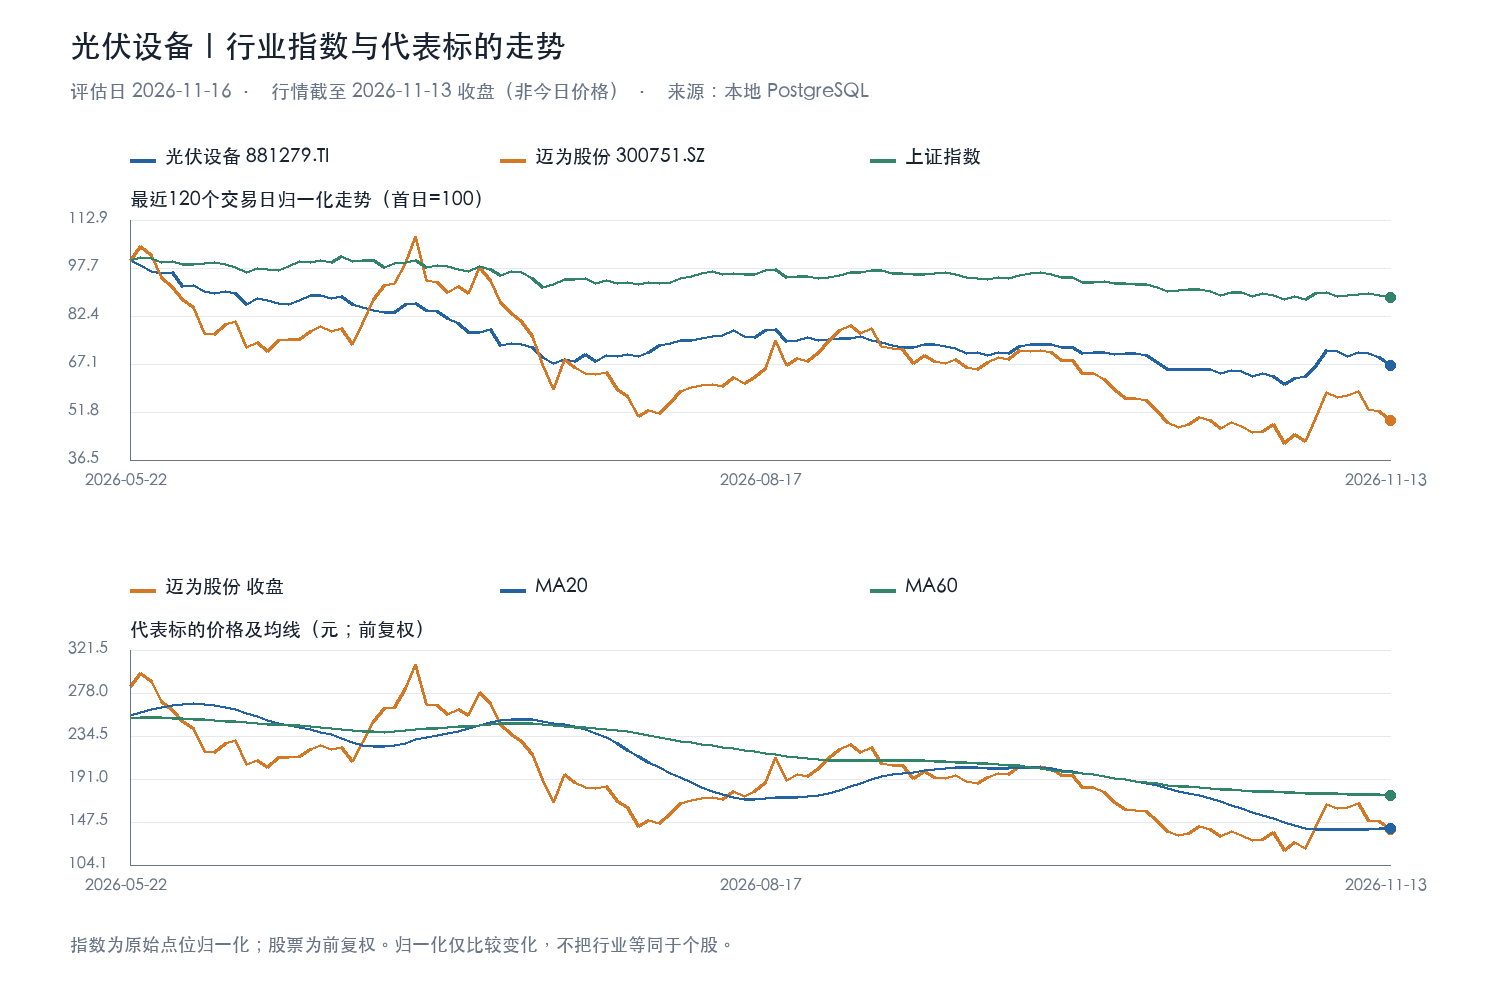
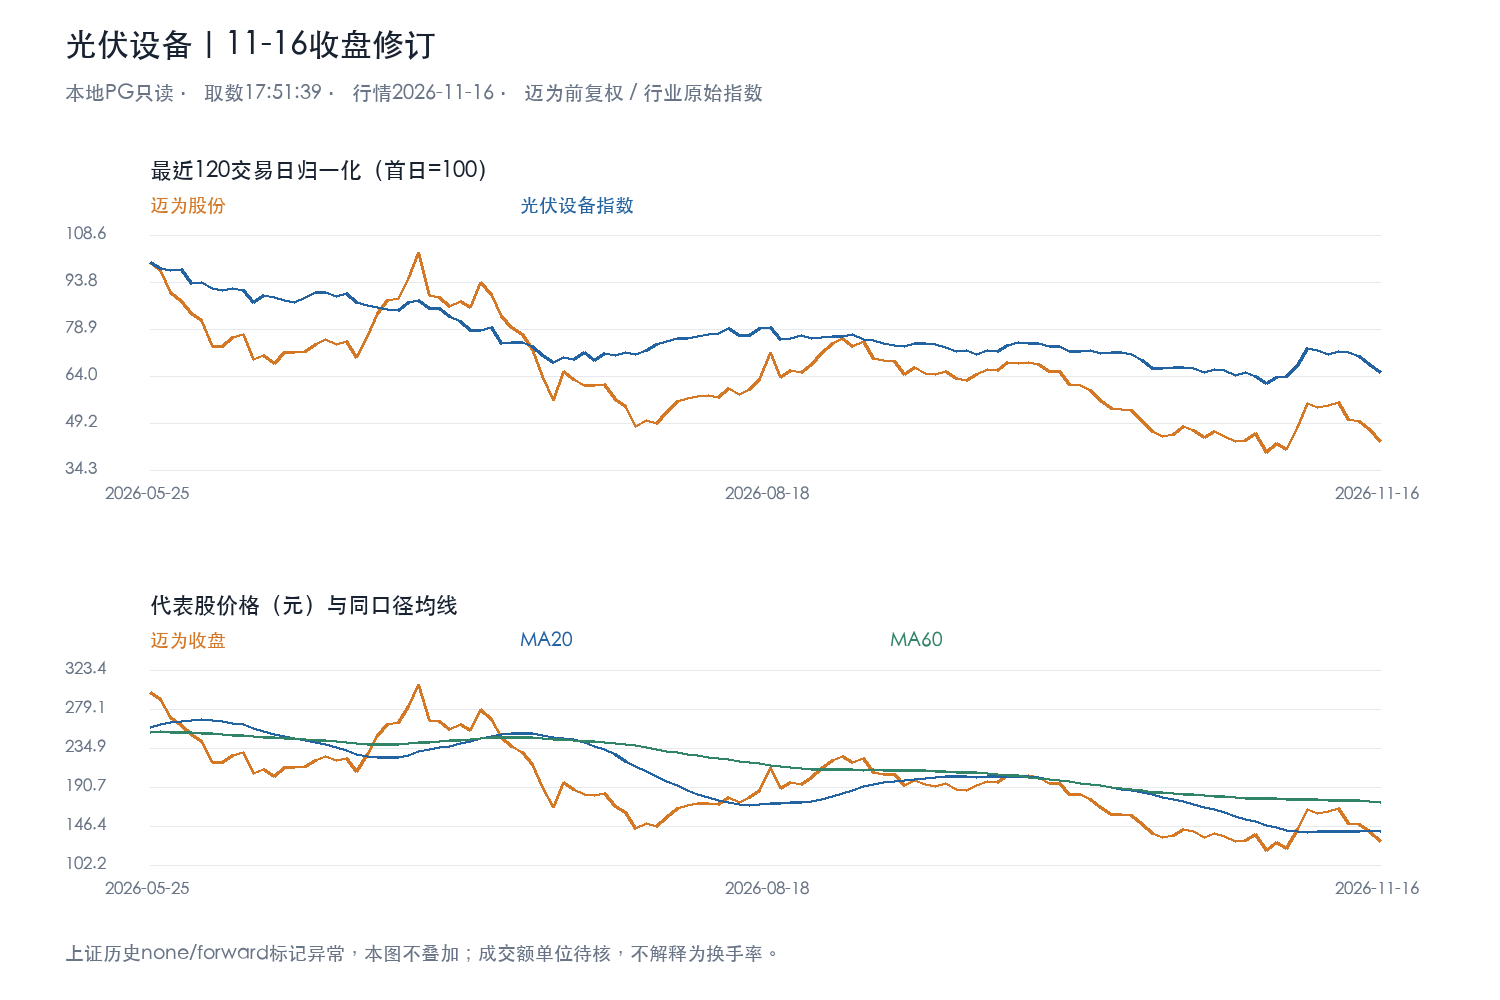
docs: 光伏首轮自然任务收盘修订与执行记录

diff --git a/研究台账/A股/光伏设备/03-每日结论.md b/研究台账/A股/光伏设备/03-每日结论.md
@@ -30,8 +30,20 @@
 - 样本区间2025-11-03至2026-11-13，各代码252条；股票复权标记为`forward`，MA20/60由同口径收盘价算术平均计算。图展示最近120个交易日，候选平台扫描使用全年库存历史。
 - 评分：本日技术观察判断15%；趋势与回踩状态参考见上文。因当日行情、基本面及平台成交额未核验，本轮所有评分上限40%，是披露过的审慎约束，不是统计模型。
 
-## 独立任务（待执行）
+## 2026-11-16 17:51自然任务收盘修订
+
+- 执行状态：收到自然触发并完成本地PG核验与图表更新。只读取数17:51:39，11-16交易日历为开市，daily_data_update #1266于17:26:07成功结束；光伏、迈为、上证各253条日线，最新均为11-16。
+- 留档处理：上方七列表格保留首次人工观察原行，04历史保留唯一15%评分（依据11-13行情），本节记录收盘修订。图01已更新11-16，图02明确标识15%是旧行情观察点；它不是当前收盘评分。未建立可复现评分公式，故不制造第二个同日百分数、不重复追加表格行。
+- 最新价格与位置：迈为股份128.65元（11-16收盘），跌8.19%；MA20=140.68（低8.55%），MA60=173.25（低25.74%）。光伏指数6206.46点，跌4.03%；MA20=6405.48（低3.11%），MA60=6797.48（低8.69%）。个股跑输行业约4.16个百分点，原“行业稍强不代表个股承接”的风险继续体现。
+- 量价：迈为成交量/此前5日均量为0.53倍，光伏指数0.77倍；缩量下跌不能等同于抛压枯竭，更不能据此断言吸筹。此次turnover原值齐全，但单位尚未核验，不能当换手率或未经核实写成成交亿元。
+- 结论：仍暂不入场，不因股价更低而提高推荐度。交易仓先看127.33（今日低点）附近是否停止创新低，再看140.68及142.16–146.49候选卖压；只有收回均线不代表基本面已反转，须持续承接。长线配置价值仍待财报、现金流和订单核验，不能机械因短线盈亏比不足否定长期研究，也不能把跌幅当便宜的证据。
+- 风险与盈亏比：保留原116.51风险观察线，不因滚动10日低点变为119.31就暗自收紧止损。以128.65到首个候选区下沿142.16、风险观察116.51测算，参考收益/风险=(142.16−128.65)/(128.65−116.51)=1.11:1，未扣费用；仍是情景测算、非执行计划。若跌破127.33且不能收回，短线继续走弱；若再破116.51须重新评估，不下移原风险线维持判断。
+- 平台限制：近一年排除最近20日，142.16–146.49区间收盘仅命中3个交易日，厚度不足，不称可靠密集筹码平台；成交额单位待核，正式交易目标和有效盈亏比均需进一步确认，不跳过近端卖压凑2:1。
+- 价基与缺口：迈为全为forward、行业全为none，均线由各自同口径收盘直接计算。上证历史在09-28/10-08标记forward后切回none，本轮不叠加，避免默认价基一致。财报、连续季度现金流、订单与公告仍未核验，不声称没有利空。
+- 来源：第一级本地PG只读，无外采补数或业务写入；[本轮行情](../../../artifacts/research-desk/2026-11-16/photovoltaic-1751/bars.csv)、[覆盖元信息](../../../artifacts/research-desk/2026-11-16/photovoltaic-1751/meta.json)。
+
+## 独立任务（首次自然执行已完成）
 
 - 任务名：`research_desk_A股_光伏设备`。
-- 实际调度：DSH任务已创建并启用，周一至周五北京时间18:00；休市由交易日历门禁跳过。真实ID：`schedule-16b832c5-3fb6-4136-a0bc-170282654e74`；首次计划2026-11-16 18:00，自然执行待验证。详见[任务账本](../任务账本.md)。
+- 实际调度：DSH任务已创建并启用，周一至周五北京时间17:51；休市由交易日历门禁跳过。真实ID：`schedule-16b832c5-3fb6-4136-a0bc-170282654e74`；首次计划2026-11-16 17:51，已收到自然触发并完成目标日行情核验与收盘修订。详见[任务账本](../任务账本.md)。
 - 运行前检查数据日是否等于目标交易日；缺数则标注沿用和缺口，不将旧价当今日价。休市不补评分；后续运行按日追加结论和评分，已有日期不重复追加；若当日日线未就绪，不倒填当日正常评分。

diff --git a/研究台账/A股/任务账本.md b/研究台账/A股/任务账本.md
@@ -7,7 +7,7 @@
 | 行业 | 业务任务名 | DSH任务标题 | 真实任务ID | 时间（Asia/Shanghai） | 首次计划触发 | 状态 |
 |---|---|---|---|---|---|---|
 | 半导体 | research_desk_A股_半导体 | 更新半导体研究台账 | schedule-7b80dd8b-81fd-44ac-b9c9-3ff272cabd9b | 周一至周五17:45 | 2026-11-16 17:45 | active；首轮自然触发与收盘修订完成，产物已由DM检查纳入本次提交 |
-| 光伏设备 | research_desk_A股_光伏设备 | 更新光伏设备研究台账 | schedule-16b832c5-3fb6-4136-a0bc-170282654e74 | 周一至周五18:00 | 2026-11-16 18:00 | active；首次自然执行待验证 |
+| 光伏设备 | research_desk_A股_光伏设备 | 更新光伏设备研究台账 | schedule-16b832c5-3fb6-4136-a0bc-170282654e74 | 周一至周五17:51 | 2026-11-16 17:51 | active；首轮自然触发与收盘修订完成，产物已由DM检查纳入本次提交 |
 | 消费电子 | research_desk_A股_消费电子 | 更新消费电子研究台账 | schedule-696c5d44-ba69-4b90-9fdc-2cc6164eb7b1 | 周一至周五18:10 | 2026-11-16 18:10 | active；首次自然执行待验证 |
 
 消费电子创建时为18:15，已在首轮运行前调整为18:10，ID不变。与光伏间隔10分钟，与18:25系统策略任务间隔15分钟。
@@ -31,3 +31,4 @@
 | 2026-11-16 | 三个行业首次人工留档 | 已完成 | 2026-11-13 | 非自然调度，已标当日行情缺失，DM已将首批产物纳入Git |
 | 2026-11-16 | 三个独立定时任务 | 已创建启用，尚未自然执行 | 待运行时核对 | 首次触发分别17:45/18:00/18:10，不把创建成功当执行成功 |
 | 2026-11-16 17:45 | research_desk_A股_半导体 | 自然触发；行情核验、图表及结论修订完成 | 2026-11-16 | PG只读取数17:45:58，日历开市；数据任务1266成功17:26:07；同日原行及25%首次评分未覆盖/未重复，另记收盘修订；上证混合价基标记单列缺口并移除比较图 |
+| 2026-11-16 17:51 | research_desk_A股_光伏设备 | 自然触发；行情核验、图表及结论修订完成 | 2026-11-16 | PG只读取数17:51:39，各253条目标日齐全；15%首次旧行情点保留并标明，不重复同日行/分；参考情景1.11:1非可执行计划，基本面待核，上证混合价基未叠加 |
